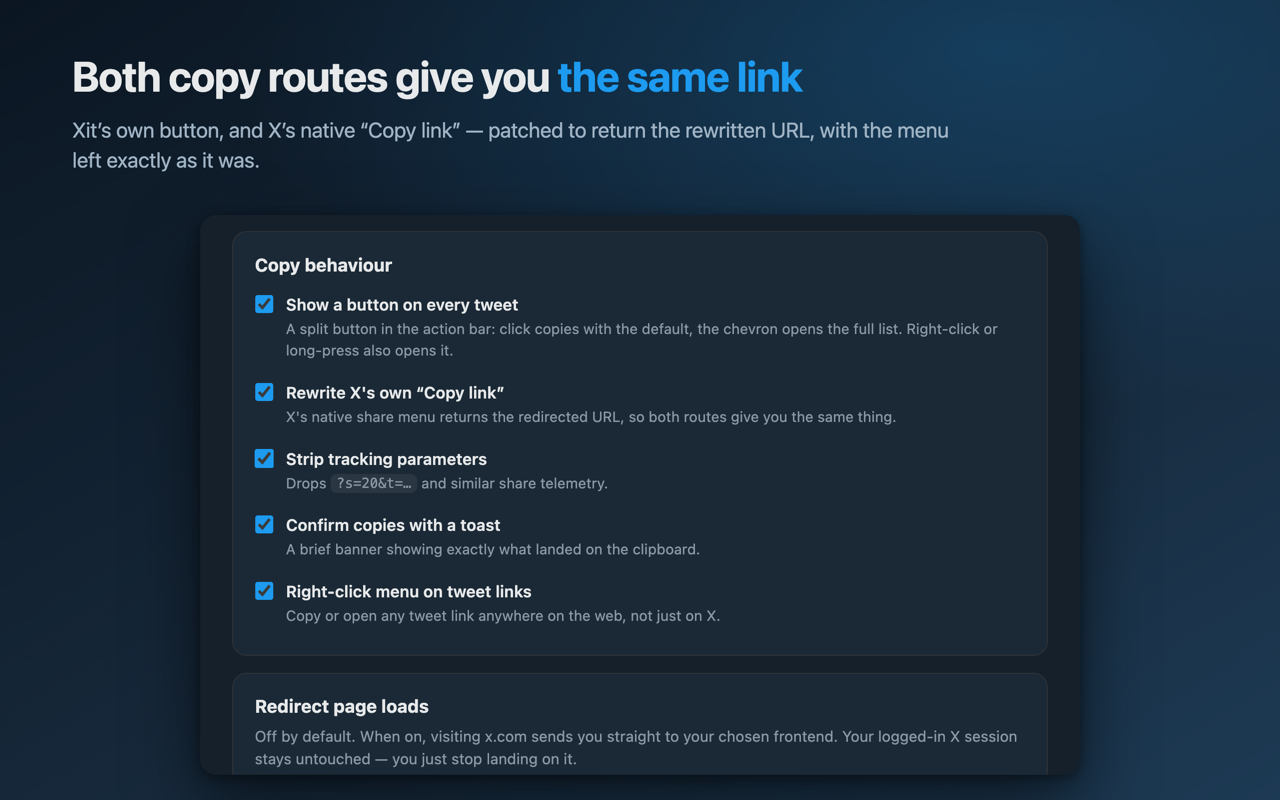
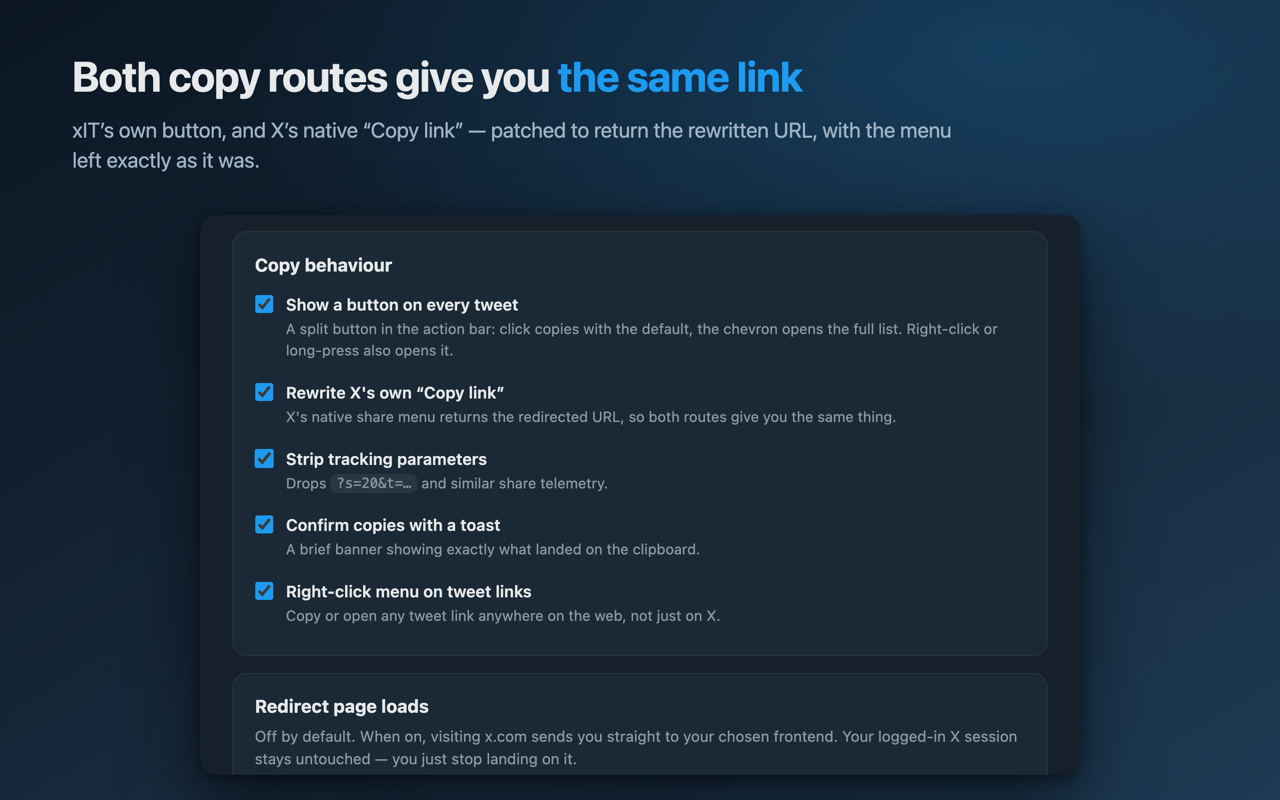
Brand as xIT
Matches the repository name. This is the display name only: the manifest
name, popup and options headings, context menu titles, and all listing
copy. Technical identifiers are deliberately left alone - the npm package
name, the gecko id, the XIT global and the xit- CSS prefix are lowercase
by convention and changing them would churn without benefit.

Store artwork re-rendered, since the wordmark is baked into the promo
tiles and the popup screenshot.

Changed region(s): [[0.0625, 0.1562, 0.75, 0.1875]]

diff --git a/src/background.js b/src/background.js
@@ -1,5 +1,5 @@
 /*
- * Xit - background.
+ * xIT - background.
  *
  * Chrome loads this as an MV3 service worker (importScripts below).
  * Firefox loads lib/*.js ahead of it as event-page scripts, so the guard
@@ -55,7 +55,7 @@ async function buildMenus(settings) {
   };
 
   // On a tweet link anywhere on the web.
-  create({ id: MENU_ROOT_LINK, title: 'Xit', contexts: ['link'], targetUrlPatterns: LINK_PATTERNS });
+  create({ id: MENU_ROOT_LINK, title: 'xIT', contexts: ['link'], targetUrlPatterns: LINK_PATTERNS });
   create({ id: 'xit-link-copy-default', parentId: MENU_ROOT_LINK, contexts: ['link'], targetUrlPatterns: LINK_PATTERNS,
     title: 'Copy as ' + XITStore.defaultRedirector(settings).name });
   create({ id: 'xit-link-sep1', parentId: MENU_ROOT_LINK, contexts: ['link'], targetUrlPatterns: LINK_PATTERNS, type: 'separator' });
@@ -74,7 +74,7 @@ async function buildMenus(settings) {
   create({ id: 'xit-link-copy-original', parentId: MENU_ROOT_LINK, contexts: ['link'], targetUrlPatterns: LINK_PATTERNS, title: 'Copy clean x.com link' });
 
   // On the page itself while browsing X.
-  create({ id: MENU_ROOT_PAGE, title: 'Xit', contexts: ['page', 'frame'], documentUrlPatterns: LINK_PATTERNS });
+  create({ id: MENU_ROOT_PAGE, title: 'xIT', contexts: ['page', 'frame'], documentUrlPatterns: LINK_PATTERNS });
   create({ id: 'xit-page-copy-default', parentId: MENU_ROOT_PAGE, contexts: ['page', 'frame'], documentUrlPatterns: LINK_PATTERNS,
     title: 'Copy this page as ' + XITStore.defaultRedirector(settings).name });
   for (const r of list) {

diff --git a/src/popup/popup.html b/src/popup/popup.html
@@ -2,13 +2,13 @@
 <html lang="en">
 <head>
 <meta charset="utf-8">
-<title>Xit</title>
+<title>xIT</title>
 <link rel="stylesheet" href="popup.css">
 </head>
 <body>
 <header class="head">
   <svg class="logo" viewBox="0 0 24 24" aria-hidden="true"><path d="M14.5 4.5 21 11l-6.5 6.5V13H10a4.5 4.5 0 0 0-4.5 4.5V20H3v-2.5A7 7 0 0 1 10 10.5h4.5V4.5Z"/></svg>
-  <h1>Xit</h1>
+  <h1>xIT</h1>
   <button id="open-options" class="icon-btn" title="Settings" aria-label="Settings">
     <svg viewBox="0 0 24 24" aria-hidden="true"><path d="M12 8a4 4 0 1 0 0 8 4 4 0 0 0 0-8Zm0 6a2 2 0 1 1 0-4 2 2 0 0 1 0 4Z"/><path d="m19.4 13-.1-1 2-1.6-2-3.4-2.4 1-1.7-1-.3-2.6h-4l-.3 2.6-1.7 1-2.4-1-2 3.4 2 1.6a7 7 0 0 0 0 2L2.5 16l2 3.4 2.4-1 1.7 1 .3 2.6h4l.3-2.6 1.7-1 2.4 1 2-3.4-2-1.6.1-1Zm-2 3.3-1.6-.7-2.6 1.5-.2 1.8h-2l-.2-1.8-2.6-1.5-1.7.7-1-1.7 1.5-1.2a8.7 8.7 0 0 1 0-2.8L4.5 9.4l1-1.7 1.7.7 2.6-1.5.2-1.8h2l.2 1.8 2.6 1.5 1.7-.7 1 1.7-1.5 1.2a8.7 8.7 0 0 1 0 2.8l1.5 1.2-1 1.7Z"/></svg>
   </button>

diff --git a/tools/store-assets/tile-marquee.html b/tools/store-assets/tile-marquee.html
@@ -19,7 +19,7 @@ p{margin:0;font-size:26px;line-height:1.4;color:#a8cbe9}
 .arrow{color:#1d9bf0;font-size:22px;padding:4px 0}
 </style></head><body>
 <div class="left">
-  <div class="mark"><div class="ic"><svg viewBox="0 0 24 24"><path d="M14.5 4.5 21 11l-6.5 6.5V13H10a4.5 4.5 0 0 0-4.5 4.5V20H3v-2.5A7 7 0 0 1 10 10.5h4.5V4.5Z"/></svg></div><h1>Xit</h1></div>
+  <div class="mark"><div class="ic"><svg viewBox="0 0 24 24"><path d="M14.5 4.5 21 11l-6.5 6.5V13H10a4.5 4.5 0 0 0-4.5 4.5V20H3v-2.5A7 7 0 0 1 10 10.5h4.5V4.5Z"/></svg></div><h1>xIT</h1></div>
   <p>Copy X links through the front-end you actually want — and never think about it again.</p>
   <div class="chips"><span class="chip">fxtwitter</span><span class="chip">xcancel</span><span class="chip">vxtwitter</span><span class="chip">nitter</span><span class="chip">your own instance</span></div>
 </div>

diff --git a/tools/store-assets/shot-options.html b/tools/store-assets/shot-options.html
@@ -1,5 +1,5 @@
 <!doctype html><html lang="en"><head><meta charset="utf-8"><link rel="stylesheet" href="frame.css">
 <style>.shadow{width:880px;height:560px;border-radius:16px}</style></head><body>
-<div class="cap"><h2>Both copy routes give you <span class="accent">the same link</span></h2><p>Xit’s own button, and X’s native “Copy link” — patched to return the rewritten URL, with the menu left exactly as it was.</p></div>
+<div class="cap"><h2>Both copy routes give you <span class="accent">the same link</span></h2><p>xIT’s own button, and X’s native “Copy link” — patched to return the rewritten URL, with the menu left exactly as it was.</p></div>
 <div class="stage"><div class="shadow"><iframe src="options-stub.html?panel=Copy%20behaviour&zoom=1.2" width="880" height="560" scrolling="no"></iframe></div></div>
 </body></html>

diff --git a/tools/store-assets/tile-small.html b/tools/store-assets/tile-small.html
@@ -10,6 +10,6 @@ body::after{content:"";position:absolute;inset:0;background:radial-gradient(400p
 h1{margin:0;font-size:52px;font-weight:800;letter-spacing:-.03em;line-height:1}
 p{margin:0;position:relative;z-index:2;font-size:15px;color:#9fc6e8;text-align:center;max-width:330px;line-height:1.35}
 </style></head><body>
-<div class="mark"><div class="ic"><svg viewBox="0 0 24 24"><path d="M14.5 4.5 21 11l-6.5 6.5V13H10a4.5 4.5 0 0 0-4.5 4.5V20H3v-2.5A7 7 0 0 1 10 10.5h4.5V4.5Z"/></svg></div><h1>Xit</h1></div>
+<div class="mark"><div class="ic"><svg viewBox="0 0 24 24"><path d="M14.5 4.5 21 11l-6.5 6.5V13H10a4.5 4.5 0 0 0-4.5 4.5V20H3v-2.5A7 7 0 0 1 10 10.5h4.5V4.5Z"/></svg></div><h1>xIT</h1></div>
 <p>Copy X links through fxtwitter, xcancel, or your own instance.</p>
 </body></html>

diff --git a/src/options/options.html b/src/options/options.html
@@ -3,7 +3,7 @@
 <head>
 <meta charset="utf-8">
 <meta name="viewport" content="width=device-width, initial-scale=1">
-<title>Xit - Settings</title>
+<title>xIT - Settings</title>
 <link rel="stylesheet" href="options.css">
 </head>
 <body>
@@ -11,7 +11,7 @@
   <header class="page-head">
     <svg class="logo" viewBox="0 0 24 24" aria-hidden="true"><path d="M14.5 4.5 21 11l-6.5 6.5V13H10a4.5 4.5 0 0 0-4.5 4.5V20H3v-2.5A7 7 0 0 1 10 10.5h4.5V4.5Z"/></svg>
     <div>
-      <h1>Xit</h1>
+      <h1>xIT</h1>
       <p class="sub">Copied X links go through the redirector you pick. Nothing leaves your browser.</p>
     </div>
   </header>

diff --git a/src/content/main-world.js b/src/content/main-world.js
@@ -1,5 +1,5 @@
 /*
- * Xit - main world.
+ * xIT - main world.
  *
  * Runs in the page's own JS context (content_scripts world: MAIN) purely so it
  * can wrap navigator.clipboard. That is what makes X's *own* "Copy link"

diff --git a/src/lib/redirectors.js b/src/lib/redirectors.js
@@ -1,5 +1,5 @@
 /*
- * Xit - core URL logic.
+ * xIT - core URL logic.
  *
  * Loaded as a classic script in every context (background, content script,
  * popup, options, page main-world) so it must not use import/export.

diff --git a/src/content/inject.js b/src/content/inject.js
@@ -1,5 +1,5 @@
 /*
- * Xit - isolated world content script.
+ * xIT - isolated world content script.
  * Owns the in-page button, the dropdown, the toast, and the fallback
  * interception of X's native "Copy link".
  */

diff --git a/src/content/inject.css b/src/content/inject.css
@@ -1,4 +1,4 @@
-/* Xit - in-page UI. All class names are xit- prefixed so they
+/* xIT - in-page UI. All class names are xit- prefixed so they
    cannot collide with X's own (hashed) styles. */
 
 :root {

diff --git a/src/lib/storage.js b/src/lib/storage.js
@@ -1,5 +1,5 @@
 /*
- * Xit - settings.
+ * xIT - settings.
  * Classic script. Depends on lib/redirectors.js. Exposes globalThis.XITStore.
  */
 (function (root) {

diff --git a/src/options/options.js b/src/options/options.js
@@ -1,4 +1,4 @@
-/* Xit - options page. */
+/* xIT - options page. */
 (function () {
   'use strict';
 
